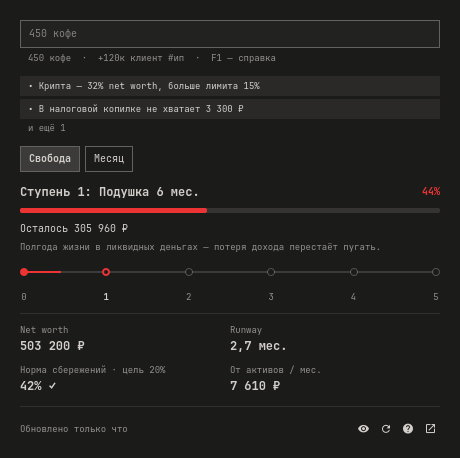
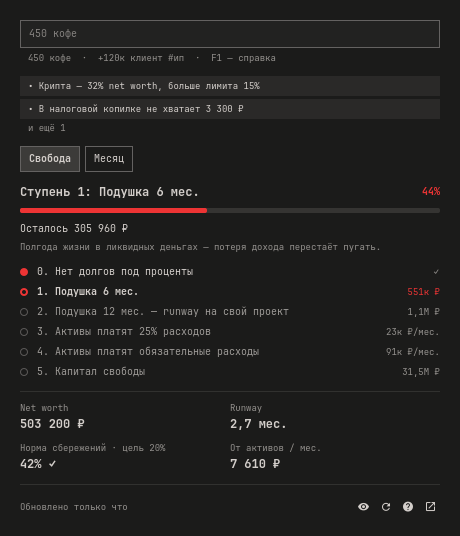
0.2.1: named ladder steps with targets; qs:// paths for the language setting

diff --git a/FreedomView.qml b/FreedomView.qml
@@ -81,28 +81,52 @@ Column {
     }
   }
 
-  MilestoneLadder {
+  // Every step by name: done, the one being climbed, and what each later one asks for.
+  Column {
     width: parent.width
-    steps: root.st ? root.st.ladder : []
-    segment: root.step && root.step.progress !== null ? root.step.progress : 0
-  }
-  // Step numbers under the dots: same spacing as MilestoneLadder.
-  Item {
-    id: numbers
-    width: parent.width
-    height: Style.font.bodySmall + Style.space(4)
-    readonly property int count: root.st ? root.st.ladder.length : 0
-    readonly property real dot: Style.space(10)
+    spacing: Style.space(2)
+    visible: !!root.st
     Repeater {
-      model: numbers.count
-      Hint {
+      model: root.st ? root.st.ladder : []
+      Item {
+        id: stepRow
+        required property var modelData
         required property int index
-        x: (numbers.count > 1 ? index * (numbers.width - numbers.dot) / (numbers.count - 1) : 0) + numbers.dot / 2 - width / 2
-        width: Style.space(22)
-        horizontalAlignment: Text.AlignHCenter
-        color: index === root.next ? Commons.Color.popups.text : Util.alpha(Commons.Color.popups.text, 0.65)
-        font.bold: index === root.next
-        text: String(index)
+        readonly property bool current: index === root.next
+        readonly property bool done: modelData.done
+        width: parent.width
+        height: Math.max(stepName.implicitHeight, Style.space(22)) + (why.visible ? why.implicitHeight + Style.space(2) : 0)
+        Rectangle {
+          id: mark
+          x: 0; y: Style.space(6)
+          width: Style.space(10); height: width; radius: width / 2
+          color: stepRow.done ? Commons.Color.accent : "transparent"
+          border.width: stepRow.done ? 0 : stepRow.current ? Style.space(2) : 1
+          border.color: stepRow.current ? Commons.Color.accent : Util.alpha(Commons.Color.popups.text, 0.35)
+        }
+        Txt {
+          id: stepName
+          x: Style.space(20); y: Style.space(2)
+          width: parent.width - x - stepValue.implicitWidth - Style.space(8)
+          font.bold: stepRow.current
+          color: stepRow.current || stepRow.done ? Commons.Color.popups.text : Util.alpha(Commons.Color.popups.text, 0.7)
+          text: root.service ? stepRow.index + ". " + root.service.stepTitle(stepRow.modelData) : ""
+        }
+        Hint {
+          id: stepValue
+          anchors.right: parent.right; y: Style.space(3)
+          color: stepRow.current ? Commons.Color.accent : Util.alpha(Commons.Color.popups.text, 0.65)
+          text: !root.service ? "" : stepRow.done ? "✓" : root.service.stepTarget(stepRow.modelData)
+        }
+        Hint {
+          id: why
+          x: Style.space(20); anchors.top: stepName.bottom; anchors.topMargin: Style.space(2)
+          width: parent.width - x
+          wrapMode: Text.Wrap
+          visible: stepArea.containsMouse && !stepRow.current
+          text: root.service ? root.service.t("freedom.why." + stepRow.modelData.key) : ""
+        }
+        MouseArea { id: stepArea; anchors.fill: parent; hoverEnabled: true; acceptedButtons: Qt.NoButton }
       }
     }
   }

diff --git a/Service.qml b/Service.qml
@@ -38,10 +38,12 @@ Item {
   readonly property bool ownLanguage: languageSetting !== "auto" && languageSetting !== Commons.I18n.language
   readonly property string language: ownLanguage ? languageSetting : Commons.I18n.language
   Commons.Translations { id: catalog; directory: Qt.resolvedUrl("i18n") }
-  FileView { id: ownCatalog; path: root.ownLanguage ? Qt.resolvedUrl("i18n/" + root.languageSetting + ".json").toString().replace(/^file:\/\//, "") : ""; printErrors: false; blockLoading: true }
-  FileView { id: englishCatalog; path: root.ownLanguage ? Qt.resolvedUrl("i18n/en.json").toString().replace(/^file:\/\//, "") : ""; printErrors: false; blockLoading: true }
+  FileView { id: ownCatalog; path: root.ownLanguage ? root.localPath(Qt.resolvedUrl("i18n/" + root.languageSetting + ".json")) : ""; printErrors: false; blockLoading: true }
+  FileView { id: englishCatalog; path: root.ownLanguage ? root.localPath(Qt.resolvedUrl("i18n/en.json")) : ""; printErrors: false; blockLoading: true }
   readonly property var ownStrings: ownLanguage ? safeJson(ownCatalog.text()) : null
   readonly property var englishStrings: ownLanguage ? safeJson(englishCatalog.text()) : null
+  // The shell loads plugins through qs:// URLs; FileView wants a plain path.
+  function localPath(url) { return String(url).replace(/^(file|qs):\/\//, "") }
   function safeJson(text) { try { return JSON.parse(text || "{}") } catch (error) { return {} } }
   function t(key) { return ownLanguage ? Model.lookup(ownStrings, englishStrings, key, undefined, language) : catalog.t(key) }
   function tn(key, count) { return ownLanguage ? Model.lookup(ownStrings, englishStrings, key, count, language) : catalog.tn(key, count) }
@@ -66,7 +68,6 @@ Item {
     if (!step) return ""
     if (step.key === "reserve-min" || step.key === "reserve-target") return t("step." + step.key).arg(number(step.months, 0))
     if (step.key === "asset-share") return t("step.asset-share").arg(percent(step.share))
-    if (step.key === "freedom") return t("step.freedom").arg(money(step.capital))
     return t("step." + step.key)
   }
   function warningText(w) {
@@ -235,6 +236,12 @@ Item {
   }
   function openNote(key) { var p = docPath(key); if (p) Quickshell.execDetached(["xdg-open", Model.obsidianUrl(p)]) }
   function openUrl(url) { Quickshell.execDetached(["xdg-open", url]) }
+  // What a later step asks for, short: "1,1 М ₽" or "45к ₽/мес.".
+  function stepTarget(step) {
+    if (!step || step.progress === null || step.need <= 0) return step && step.key === "no-debt" ? "" : "—"
+    var amount = amountsHidden ? "•••" : Model.shortMoney(step.need, {k: t("short.k"), m: t("short.m"), decimal: locale.decimalPoint}) + " ₽"
+    return step.monthly ? t("freedom.per-month").arg(amount) : amount
+  }
   function remainingText(step) {
     var left = Model.remaining(step)
     if (left <= 0) return ""

diff --git a/CHANGELOG.md b/CHANGELOG.md
@@ -1,5 +1,10 @@
 # Changelog
 
+## 0.2.1
+
+- Every step of the ladder is listed by name, with what it asks for; hover a later step to see what it gives.
+- The language setting also works when the shell loads plugins through qs:// URLs.
+
 ## 0.2.0
 
 - Help inside the panel (? button or F1): the entry line with clickable examples, the keys, and buttons to your notes in Obsidian, Fava and this guide.
